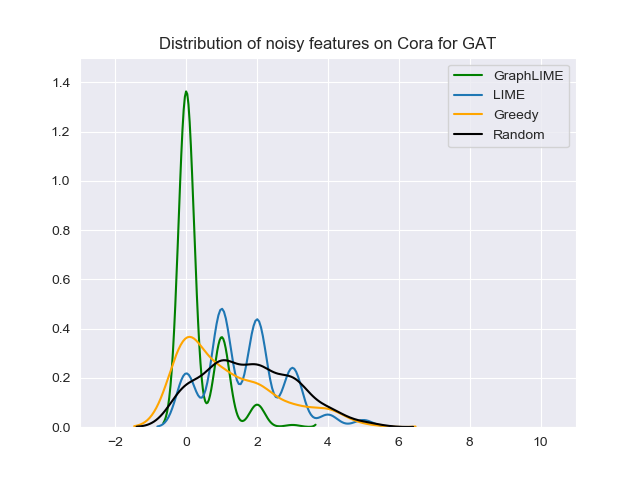
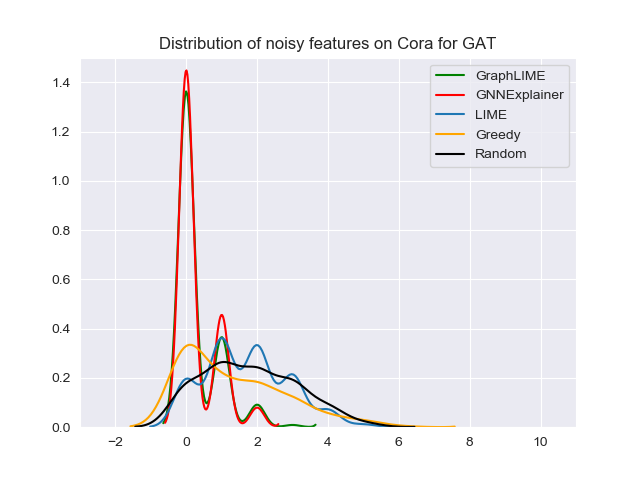
add GNNExplainer

Changed region(s): [[0.2188, 0.1562, 0.6875, 0.9062], [0.6875, 0.125, 0.875, 0.3438], [0.6875, 0.3125, 0.7188, 0.3438]]

diff --git a/examples/noise_features/exp_noise_features.py b/examples/noise_features/exp_noise_features.py
@@ -9,6 +9,7 @@ from tqdm import tqdm
 import matplotlib.pyplot as plt
 
 import torch
+from torch_geometric.nn import GNNExplainer
 
 from models import GAT
 from graphlime import GraphLIME
@@ -30,8 +31,8 @@ def build_args():
 
     # data
     parser.add_argument('--dataset', type=str, default='Cora', help='dataset')
-    parser.add_argument('--epochs', type=int, default=400, help='epochs for training a GNN model')
-    parser.add_argument('--lr', type=float, default=0.001, help='learning rate')
+    parser.add_argument('--model_epochs', type=int, default=400, help='epochs for training a GNN model')
+    parser.add_argument('--model_lr', type=float, default=0.001, help='learning rate for training model')
     parser.add_argument('--test_samples', type=int, default=200, help='number of test samples')
     parser.add_argument('--num_noise', type=int, default=10, help='number of noise features to add')
 
@@ -39,6 +40,11 @@ def build_args():
     parser.add_argument('--hop', type=int, default=2, help='hops')
     parser.add_argument('--rho', type=float, default=0.15, help='rho')
     parser.add_argument('--K', type=int, default=300, help='top-K most importance features')
+
+    # GNNExplainer
+    parser.add_argument('--masks_epochs', type=int, default=200, help='epochs for training a GNNExplainer')
+    parser.add_argument('--masks_lr', type=float, default=0.01, help='learning rate for training GNNExplainer')
+    parser.add_argument('--masks_threshold', type=float, default=0.1, help='threshold of features for GNNExplainer')
 
     # LIME
     parser.add_argument('--lime_samples', type=int, default=50, help='generate samples for LIME')
@@ -82,6 +88,25 @@ def find_noise_feats_by_GraphLIME(model, data, args):
         num_noise_feat = sum(idx >= INPUT_DIM[args.dataset] for idx in feat_indices)
         num_noise_feats.append(num_noise_feat)
 
+    return num_noise_feats
+
+
+def find_noise_feats_by_GNNExplainer(model, data, args):
+    explainer = GNNExplainer(model, epochs=args.masks_epochs, lr=args.masks_lr, num_hops=args.hop, log=False)
+
+    node_indices = extract_test_nodes(data, args.test_samples)
+
+    num_noise_feats = []
+    for node_idx in tqdm(node_indices, desc='explain node', leave=False):
+        node_feat_mask, edge_mask = explainer.explain_node(node_idx, data.x, data.edge_index)
+        node_feat_mask = node_feat_mask.detach().cpu().numpy()
+
+        feat_indices = node_feat_mask.argsort()[-args.K:]
+        feat_indices = [idx for idx in feat_indices if node_feat_mask[idx] > args.masks_threshold]
+
+        num_noise_feat = sum(idx >= INPUT_DIM[args.dataset] for idx in feat_indices)
+        num_noise_feats.append(num_noise_feat)
+    
     return num_noise_feats
 
 
@@ -152,16 +177,21 @@ def main():
     data = data.to(device)
 
     train(model, data, args)
+    # model.load_state_dict(torch.load('./examples/noise_features/model.pth'))
     test_loss, test_acc = evaluate(model, data, mask=data.test_mask)
     print('test_loss: {:.4f}, test_acc: {:.4f}'.format(test_loss, test_acc))
 
     if test_acc < 0.8:
-        print('bad model. Please re-run.')
+        print('bad model! Please re-run!')
         exit()
     
     print('=== Explain by GraphLIME ===')
     noise_feats = find_noise_feats_by_GraphLIME(model, data, args)
     plot_dist(noise_feats, label='GraphLIME', ymax=args.ymax, color='g')
+
+    print('=== Explain by GNNExplainer ===')
+    noise_feats = find_noise_feats_by_GNNExplainer(model, data, args)
+    plot_dist(noise_feats, label='GNNExplainer', ymax=args.ymax, color='r')
 
     print('=== Explain by LIME ===')
     noise_feats = find_noise_feats_by_LIME(model, data, args)

diff --git a/examples/noise_features/utils.py b/examples/noise_features/utils.py
@@ -89,7 +89,7 @@ def plot_dist(noise_feats, label=None, ymax=1.0, color=None, title=None, save_pa
 
 
 def train(model, data, args, verbose=True):
-    optimizer = optim.Adam(model.parameters(), lr=args.lr, weight_decay=5e-4)
+    optimizer = optim.Adam(model.parameters(), lr=args.model_lr, weight_decay=5e-4)
 
     train_loss_values, train_acc_values = [], []
     test_loss_values, test_acc_values = [], []
@@ -99,7 +99,7 @@ def train(model, data, args, verbose=True):
 
     model_path = os.path.join(os.path.dirname(os.path.abspath(__file__)), 'model.pth')
 
-    for epoch in tqdm(range(args.epochs), desc='Training', leave=False):
+    for epoch in tqdm(range(args.model_epochs), desc='Training', leave=False):
         if epoch == 0:
             print('       |     Trainging     |     Validation     |')
             print('       |-------------------|--------------------|')
